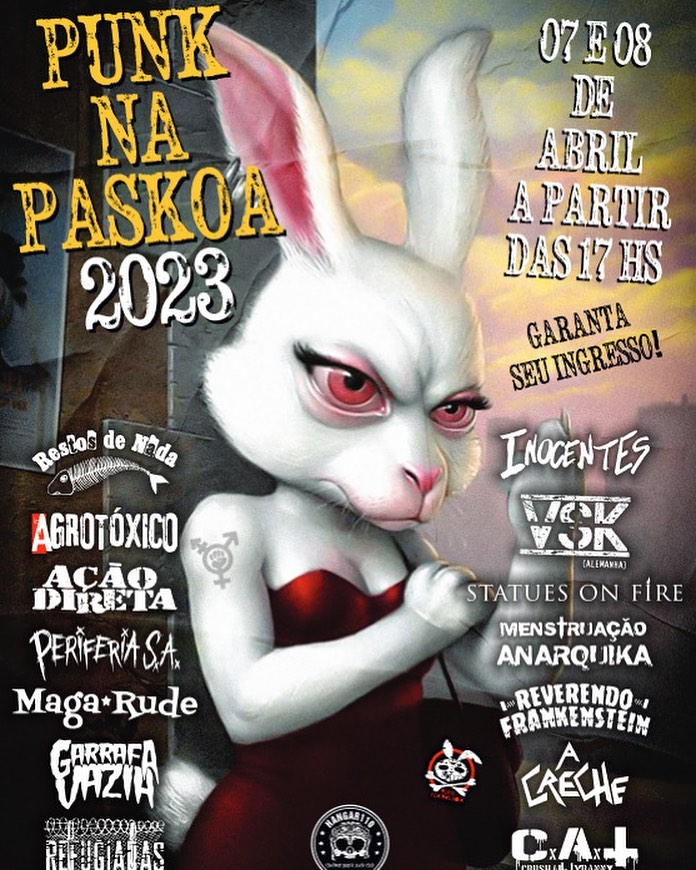
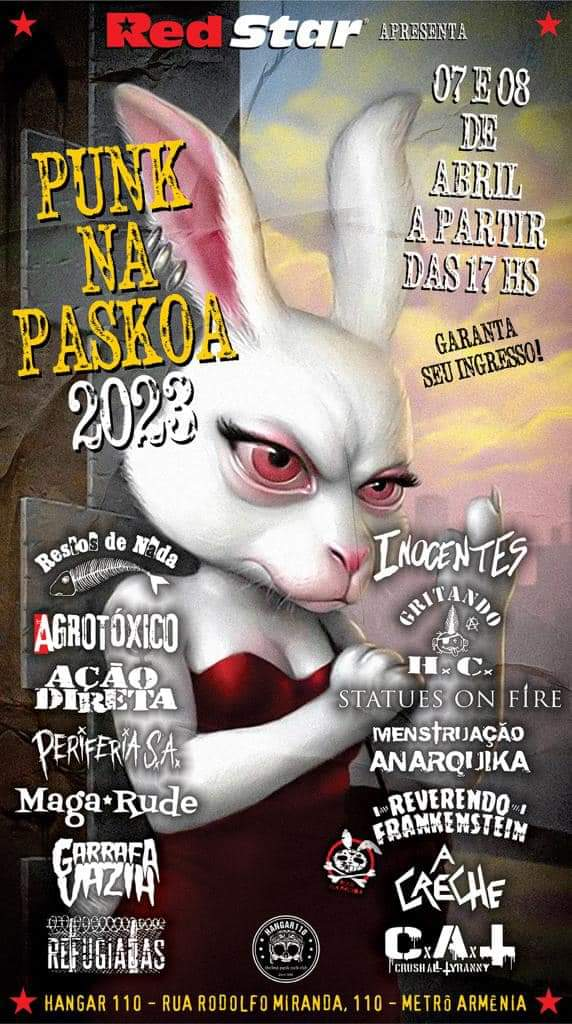
More gigs

diff --git a/src/content/state/df.md b/src/content/state/df.md
@@ -30,5 +30,9 @@ gigs:
     date: '26/04/2023 20:00'
     poster: FB_IMG_1679356282228.jpg
     daysGroup: 26/27/28/29/30
+  - city: Gama
+    date: '22/04/2023 14:00'
+    poster: FB_IMG_1679890858086.jpg
+    daysGroup: 21/22/23
 ---
 
